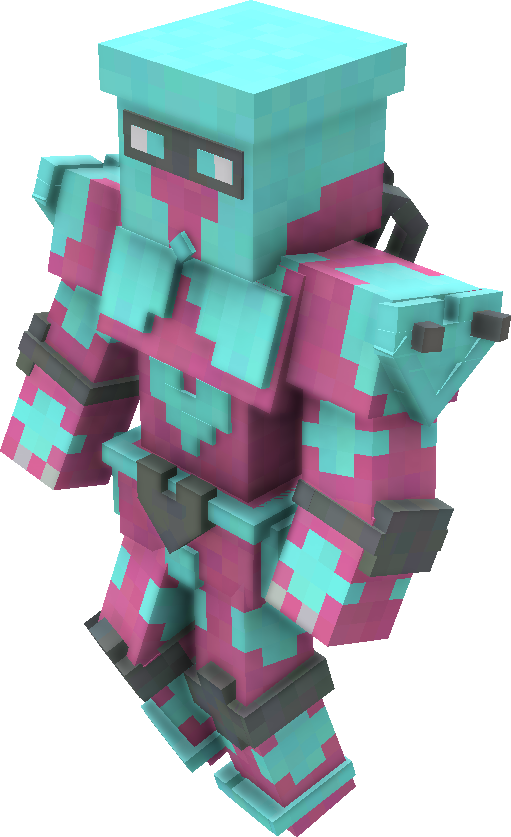
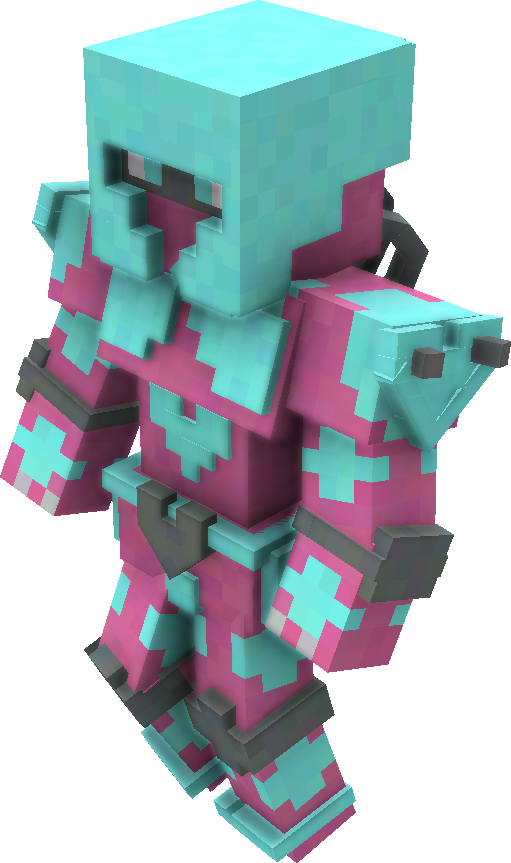
Chnaged Crazy Diamond's model

diff --git a/src/main/java/com/novarch/jojomod/entities/stands/crazyDiamond/ModelCrazyDiamond.java b/src/main/java/com/novarch/jojomod/entities/stands/crazyDiamond/ModelCrazyDiamond.java
@@ -5,12 +5,14 @@ import com.mojang.blaze3d.vertex.IVertexBuilder;
 import net.minecraft.client.renderer.entity.model.EntityModel;
 import net.minecraft.client.renderer.model.ModelRenderer;
 
-public class ModelCrazyDiamond<T extends EntityCrazyDiamond> extends EntityModel<T> {
+public class ModelCrazyDiamond<T extends EntityCrazyDiamond> extends EntityModel<T>
+{
 	private final ModelRenderer HeadBase;
 	private final ModelRenderer Head;
 	private final ModelRenderer Eyes;
 	private final ModelRenderer Chin;
 	private final ModelRenderer ChinPart1;
+	private final ModelRenderer Helmet;
 	private final ModelRenderer Pipes;
 	private final ModelRenderer Pipes1;
 	private final ModelRenderer Pipe1;
@@ -85,7 +87,8 @@ public class ModelCrazyDiamond<T extends EntityCrazyDiamond> extends EntityModel
 	private final ModelRenderer KneePad1;
 	private final ModelRenderer KneePad3;
 
-	public ModelCrazyDiamond() {
+	public ModelCrazyDiamond()
+	{
 		textureWidth = 128;
 		textureHeight = 128;
 
@@ -97,14 +100,13 @@ public class ModelCrazyDiamond<T extends EntityCrazyDiamond> extends EntityModel
 		Head.setRotationPoint(0.0F, 0.0F, 0.0F);
 		HeadBase.addChild(Head);
 		Head.setTextureOffset(0, 0).addBox(-4.0F, -10.2F, -4.0F, 8.0F, 8.0F, 8.0F, 0.0F, false);
-		Head.setTextureOffset(83, 1).addBox(-4.5F, -10.4F, -4.5F, 9.0F, 2.0F, 9.0F, 0.0F, false);
 
 		Eyes = new ModelRenderer(this);
-		Eyes.setRotationPoint(0.0F, 0.0F, 0.0F);
+		Eyes.setRotationPoint(0.0F, 0.0F, 0.2F);
 		Head.addChild(Eyes);
-		Eyes.setTextureOffset(72, 0).addBox(-3.0F, -7.2F, -4.175F, 2.0F, 1.0F, 1.0F, 0.0F, true);
-		Eyes.setTextureOffset(72, 0).addBox(1.0F, -7.2F, -4.175F, 2.0F, 1.0F, 1.0F, 0.0F, false);
-		Eyes.setTextureOffset(46, 0).addBox(-3.5F, -7.7F, -4.15F, 7.0F, 2.0F, 1.0F, 0.0F, false);
+		Eyes.setTextureOffset(72, 0).addBox(-3.0F, -7.2F, -4.525F, 2.0F, 1.0F, 1.0F, 0.0F, true);
+		Eyes.setTextureOffset(72, 0).addBox(1.0F, -7.2F, -4.525F, 2.0F, 1.0F, 1.0F, 0.0F, false);
+		Eyes.setTextureOffset(46, 0).addBox(-3.5F, -7.7F, -4.45F, 7.0F, 2.0F, 1.0F, 0.0F, false);
 
 		Chin = new ModelRenderer(this);
 		Chin.setRotationPoint(0.0F, 0.0F, 0.0F);
@@ -116,6 +118,26 @@ public class ModelCrazyDiamond<T extends EntityCrazyDiamond> extends EntityModel
 		Chin.addChild(ChinPart1);
 		setRotationAngle(ChinPart1, 0.0F, 0.0F, -0.7854F);
 		ChinPart1.setTextureOffset(0, 0).addBox(0.596F, -0.8889F, 0.25F, 1.0F, 1.0F, 1.0F, 0.0F, false);
+
+		Helmet = new ModelRenderer(this);
+		Helmet.setRotationPoint(0.0F, 0.0F, 0.0F);
+		Head.addChild(Helmet);
+		Helmet.setTextureOffset(92, 0).addBox(3.5F, -11.375F, -5.25F, 1.0F, 5.0F, 10.0F, 0.0F, false);
+		Helmet.setTextureOffset(83, 1).addBox(3.5F, -11.475F, -5.25F, 1.0F, 1.0F, 10.0F, 0.0F, false);
+		Helmet.setTextureOffset(92, 0).addBox(-4.5F, -11.475F, -5.25F, 1.0F, 5.0F, 10.0F, 0.0F, true);
+		Helmet.setTextureOffset(93, 2).addBox(-4.5F, -11.475F, 4.0F, 1.0F, 5.0F, 1.0F, 0.0F, true);
+		Helmet.setTextureOffset(96, 9).addBox(3.5F, -11.375F, 4.0F, 1.0F, 5.0F, 1.0F, 0.0F, false);
+		Helmet.setTextureOffset(94, 5).addBox(3.5F, -6.375F, -5.25F, 1.0F, 2.0F, 6.0F, 0.0F, false);
+		Helmet.setTextureOffset(94, 5).addBox(-4.5F, -7.375F, -5.25F, 1.0F, 3.0F, 6.0F, 0.0F, true);
+		Helmet.setTextureOffset(94, 5).addBox(3.5F, -4.375F, -5.25F, 1.0F, 2.0F, 3.0F, 0.0F, false);
+		Helmet.setTextureOffset(94, 5).addBox(-4.5F, -4.375F, -5.25F, 1.0F, 2.0F, 3.0F, 0.0F, true);
+		Helmet.setTextureOffset(83, 1).addBox(-4.0F, -11.475F, -5.25F, 8.0F, 2.0F, 9.0F, 0.0F, false);
+		Helmet.setTextureOffset(99, 7).addBox(1.0F, -4.225F, -5.25F, 3.0F, 2.0F, 1.0F, 0.0F, false);
+		Helmet.setTextureOffset(99, 7).addBox(-4.0F, -4.225F, -5.25F, 3.0F, 2.0F, 1.0F, 0.0F, true);
+		Helmet.setTextureOffset(99, 7).addBox(2.0F, -5.725F, -5.25F, 2.0F, 2.0F, 1.0F, 0.0F, false);
+		Helmet.setTextureOffset(99, 7).addBox(-4.0F, -5.725F, -5.25F, 2.0F, 2.0F, 1.0F, 0.0F, true);
+		Helmet.setTextureOffset(94, 6).addBox(-4.0F, -9.725F, -5.25F, 8.0F, 2.0F, 1.0F, 0.0F, false);
+		Helmet.setTextureOffset(92, 5).addBox(-4.0F, -11.475F, 3.0F, 8.0F, 5.0F, 2.0F, 0.0F, false);
 
 		Pipes = new ModelRenderer(this);
 		Pipes.setRotationPoint(0.0F, 0.0F, 0.0F);
@@ -603,7 +625,8 @@ public class ModelCrazyDiamond<T extends EntityCrazyDiamond> extends EntityModel
 		BodyBase.render(matrixStack, buffer, packedLight, packedOverlay);
 	}
 
-	public void setRotationAngle(ModelRenderer modelRenderer, float x, float y, float z) {
+	public void setRotationAngle(ModelRenderer modelRenderer, float x, float y, float z)
+	{
 		modelRenderer.rotateAngleX = x;
 		modelRenderer.rotateAngleY = y;
 		modelRenderer.rotateAngleZ = z;
